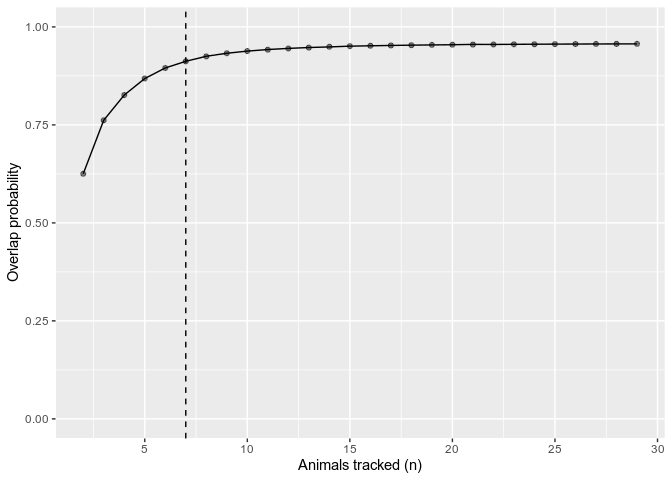
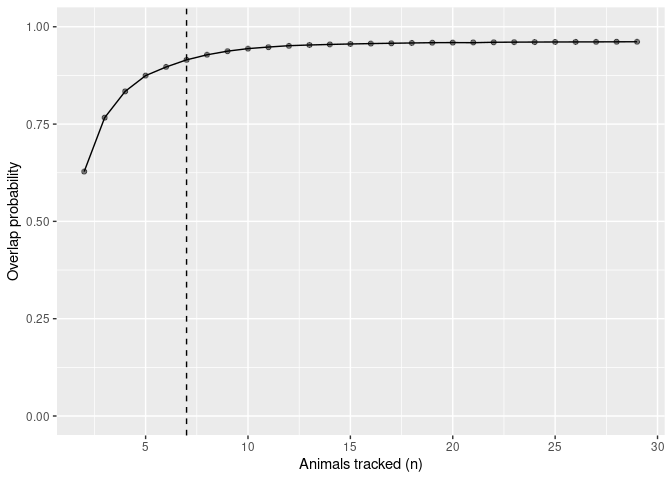
Ver 2.0.1.0008 - update #1

diff --git a/NEWS.md b/NEWS.md
@@ -8,7 +8,7 @@ output:
 News for Package 'SDLfilter'
 =========
 
-#### Version 2.0.1.0006 (2021-02-14)
+#### Version 2.0.1.0008 (2021-03-24)
 * improved the asymptote function.
 * added a new citation for functions 'boot_overlap', 'boot_area' and 'asymptote'. Shimada T, Thums M, Hamann M, Limpus CJ, Hays GC, FitzSimmons NN, Wildermann NE, Duarte CD, Meekan MG (2021) Optimising sample sizes for animal distribution analysis using tracking data. Methods in Ecology and Evolution, 12(2):288-297. doi:10.1111/2041-210X.13506
 * updated the README file.

diff --git a/README.md b/README.md
@@ -164,11 +164,11 @@ areas. *Mar Biol* 163:1-14 doi:
 
 If you use the functions *boot_overlap* or *boot_area*, please cite
 
-Shimada, T, Thums, M, Hamann, M, et al. (2020) Optimising sample sizes
+Shimada, T, Thums, M, Hamann, M, et al. (2021) Optimising sample sizes
 for animal distribution analysis using tracking data. *Methods Ecol
 Evol* 12(2):288-297 doi:
 [10.1111/2041-210X.13506](https://doi.org/10.1111/2041-210X.13506)
 
 ## Current version
 
-2.0.1.0006 (14 February 2021)
+2.0.1.0008 (24 March 2021)
